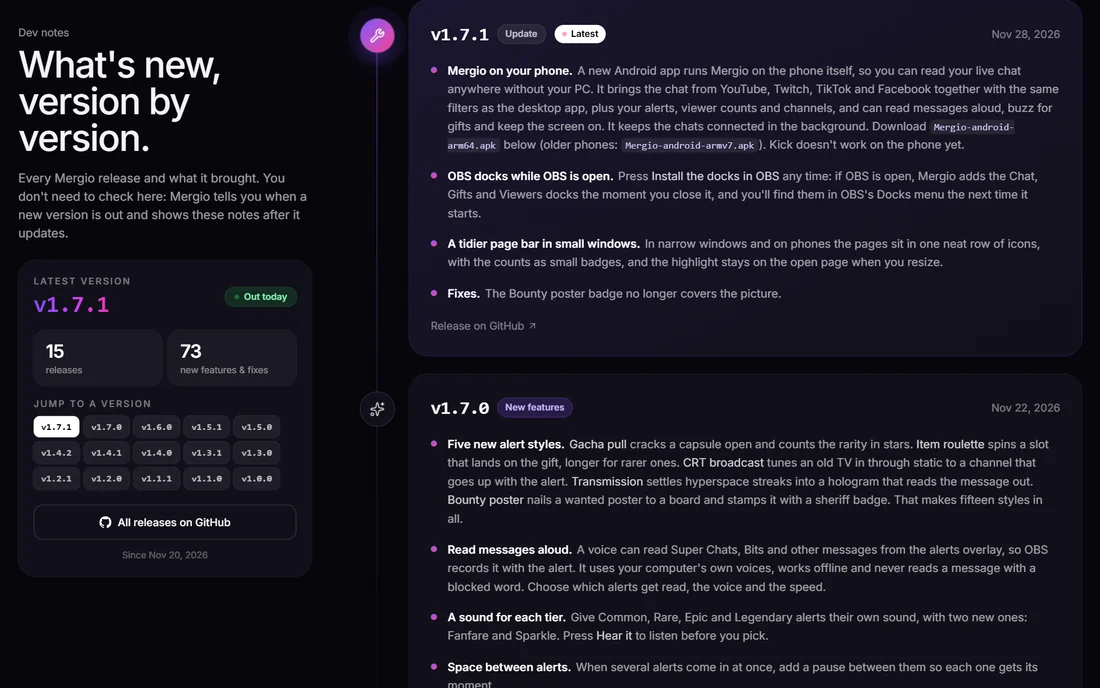
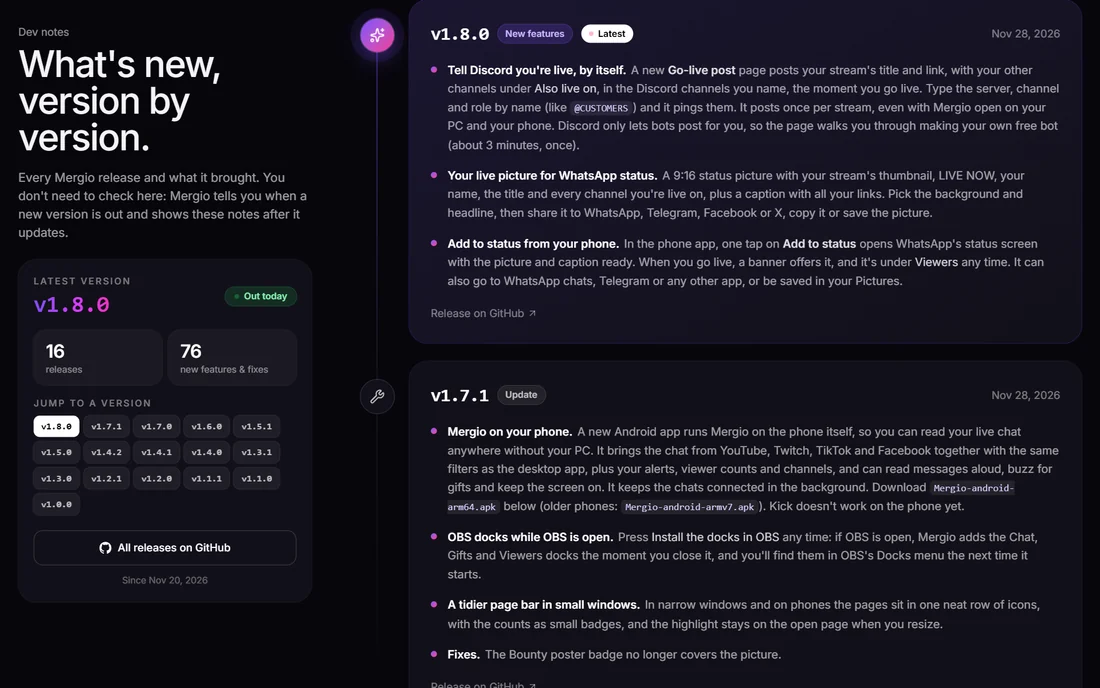
Update the Mergio project page for 1.8.0: go-live posts to Discord, the WhatsApp status picture and release history

diff --git a/components/pages/showcase/data/dev.ts b/components/pages/showcase/data/dev.ts
@@ -154,7 +154,7 @@ export const DEV: DevProject[] = [
     kind: 'dev',
     slug: 'mergio',
     title: 'Mergio',
-    tagline: 'Every live chat in one OBS overlay. YouTube, Twitch, Kick, TikTok and Facebook chat, fifteen game-style alerts, OBS docks, viewer counts and follower goals, from a free app that runs on your own PC, plus an Android app that brings the chat to your phone.',
+    tagline: 'Every live chat in one OBS overlay. YouTube, Twitch, Kick, TikTok and Facebook chat, fifteen game-style alerts, OBS docks, viewer counts and follower goals, from a free app that runs on your own PC. It posts to Discord the moment you go live, and an Android app brings the chat to your phone and puts your live picture on WhatsApp status in one tap.',
     kicker: 'Open Source · Desktop & Android App for Streamers',
     cover: '/Images/projects/mergio/cover.webp',
     accent: '#b18cff',
@@ -164,7 +164,7 @@ export const DEV: DevProject[] = [
       { label: 'Platform', value: 'Windows · macOS · Linux · Android' },
       { label: 'Type', value: 'Desktop app, OBS browser sources, Android app' },
       { label: 'Stack', value: 'Node.js · Vanilla JS · Android · React site' },
-      { label: 'Version', value: 'v1.7.1 · 15 releases · Nov 2026' },
+      { label: 'Version', value: 'v1.8.0 · 16 releases · Nov 2026' },
       { label: 'Licence', value: 'Open source · MIT with credit' },
     ],
     links: [
@@ -176,6 +176,7 @@ export const DEV: DevProject[] = [
       'Plenty of streamers go live on several platforms at once, and then spend the whole stream juggling five chat windows. Mergio pulls the live chat from YouTube, Twitch, Kick, TikTok and Facebook into one overlay that drops into OBS as a single browser source, so every viewer shows up in the same place, in the same style, on stream.',
       'It grew into a full toolkit for multistreaming: an alerts overlay with fifteen game-style looks where bigger gifts get a rarer tier and their own sound, a voice that can read Super Chats and Bits aloud, a viewer count that adds up everyone watching on every platform, follower goals, and three docks that put the chat, gifts and viewers inside OBS itself. Every overlay can keep three saved looks, and ten matching packs restyle everything at once.',
       'Version 1.7.1 took it off the desk. The Android app runs Mergio itself on the phone, with Node.js built into the app, so a streamer can read every live chat from the couch or the street with the PC switched off.',
+      'Version 1.8.0 tells everyone the stream has started. The streamer’s own Discord bot posts the title and every stream link in the channels they name, once per stream, and a status picture with all their streams goes on WhatsApp status in one tap from the phone.',
       'It’s one small app with no account, no cloud and no subscription. It runs on your own computer, keeps every setting in one file there, connects straight to each platform and updates itself. I designed and built all of it, from the overlays and the control panel to the installers, the release pipeline and the website.',
     ],
     problem: [
@@ -191,6 +192,8 @@ export const DEV: DevProject[] = [
       { icon: 'Palette', title: 'Saved looks and matching packs', text: 'Six chat looks with live preview over a game, dark or light background. Every overlay keeps three saved looks you can switch in a click or give each scene its own, and ten matching packs give the chat, alerts and counters one look.' },
       { icon: 'LayoutDashboard', title: 'Inside OBS', text: 'Three OBS docks: the chat, gifts with the top supporters, and viewers with the peak. One button adds them to OBS, even while OBS is open: Mergio waits and adds them the moment OBS closes. A Live chat list with filters and search fits a narrow dock too.' },
       { icon: 'Smartphone', title: 'Mergio on your phone', text: 'An Android app that runs Mergio on the phone itself, with no PC needed. Chat from every platform with the same filters, alerts with top supporters, viewer counts and channels, plus read aloud, a buzz for gifts and keep-the-screen-on. It stays connected in the background.' },
+      { icon: 'Megaphone', title: 'Go-live posts to Discord', text: 'When the stream starts, the streamer’s own Discord bot posts the title and link, with every other platform they’re live on, in the channels they type by name, and pings the role they pick. It posts once per stream, even with Mergio open on the PC and the phone.' },
+      { icon: 'Image', title: 'A status picture for WhatsApp', text: 'A 9:16 picture with the stream’s thumbnail, LIVE NOW, the name, the title and every channel, plus a caption with all the links. In the Android app, one tap opens WhatsApp’s status screen with both ready, and share buttons cover WhatsApp chats, Telegram, Facebook and X.' },
       { icon: 'Users', title: 'Viewer count and follower goals', text: 'One number for everyone watching on every platform, with a breakdown per platform, plus follower goals with progress bars. You pick which platforms show, and the next goal appears by itself.' },
       { icon: 'Earth', title: 'Every language looks right', text: 'Arabic and Hebrew keep their direction, default profile pictures use the first letter of any script, and alert names in joined scripts like Sinhala animate as whole words.' },
       { icon: 'Rocket', title: 'Updates itself', text: 'Mergio checks GitHub for new versions, installs them on Windows with one click after checking the download’s SHA-256, and shows what’s new after every update.' },
@@ -207,6 +210,8 @@ export const DEV: DevProject[] = [
           ['panel-sounds', 'Alerts - a sound for each tier and read aloud'],
           ['panel-obs', 'Add to OBS - every overlay link and the OBS docks'],
           ['panel-live', 'Live chat with filters'],
+          ['panel-golive', 'Go-live post - Discord channels by name'],
+          ['panel-golive-share', 'Share & status - the live picture and caption'],
           ['panel-viewers', 'Viewer count'],
           ['panel-followers', 'Follower goals'],
           ['panel-settings', 'Settings, accounts and keys'],
@@ -217,6 +222,7 @@ export const DEV: DevProject[] = [
         orientation: 'portrait',
         shots: shots('/Images/projects/mergio', [
           ['android-chat', 'Chat from every platform on the phone'],
+          ['android-status', 'Add to status - the live picture for WhatsApp'],
           ['android-alerts', 'Alerts with totals and top supporters'],
           ['android-sheet', 'Tap a message to copy, hide or mute'],
           ['android-chats', 'Add and pause chats on the phone'],
@@ -237,7 +243,7 @@ export const DEV: DevProject[] = [
         label: 'Website',
         orientation: 'landscape',
         shots: shots('/Images/projects/mergio', [
-          ['site-hero', 'Landing page hero - new in 1.7.1'],
+          ['site-hero', 'Landing page hero - new in 1.8.0'],
           ['site-android', 'Your chat, in your pocket - the Android app'],
           ['site-features', 'Features'],
           ['site-local', 'Runs on your PC, nothing in the cloud'],
@@ -257,22 +263,23 @@ export const DEV: DevProject[] = [
         { icon: 'Server', title: 'Local server and WebSocket', text: 'The server listens on 127.0.0.1:8787 only. A WebSocket pushes messages, settings changes and counter updates to every open overlay, dock and the control panel, so a change in the panel shows on stream straight away.' },
         { icon: 'Mic', title: 'Voices made on your PC', text: 'Read aloud uses the system’s own speech: Windows speech, say on macOS and espeak-ng on Linux. The voice is only made for an alert Mergio already showed, looked up by its id, and the audio is kept in memory while it plays.' },
         { icon: 'Lock', title: 'Safe by design', text: 'Only Mergio’s own pages can use the API and the WebSocket (Origin and Sec-Fetch-Site checks), requests must be addressed to localhost, every page has a strict Content Security Policy, saved keys never go back to the browser, tokens are removed from logs, and the data folder is locked to your user account.' },
-        { icon: 'Smartphone', title: 'The same Mergio on Android', text: 'The Android app embeds Node.js (nodejs-mobile) and runs Mergio’s own connectors, bundled with esbuild, inside a foreground service so the chats stay connected in the background. A WebView shows phone screens served on 127.0.0.1, and a small Java bridge adds the phone’s voice, vibration and keep-screen-on.' },
+        { icon: 'Smartphone', title: 'The same Mergio on Android', text: 'The Android app embeds Node.js (nodejs-mobile) and runs Mergio’s own connectors, bundled with esbuild, inside a foreground service so the chats stay connected in the background. A WebView shows phone screens served on 127.0.0.1, and a small Java bridge adds the phone’s voice, vibration, keep-screen-on and sharing the status picture through a read-only content provider.' },
+        { icon: 'Send', title: 'Discord by name', text: 'The go-live post uses Discord’s REST API with the streamer’s own bot. It finds the server, channel and role by name, limits the ping with allowed_mentions, retries when Discord is busy, and reads the channel’s recent messages first, so the PC and the phone never post the same stream twice.' },
         { icon: 'Package', title: 'Installers and releases', text: 'Pushing a version tag builds the Windows installer and portable zip, the macOS disk image, the Linux packages and the signed Android APKs on GitHub Actions and publishes them. The release notes become the in-app “What’s new” popup and the website’s Dev notes.' },
       ],
     },
     stack: [
-      { group: 'App', items: ['Node.js 24', 'Single executable (SEA)', 'ws WebSockets', 'tiktok-live-connector', 'esbuild'] },
+      { group: 'App', items: ['Node.js 24', 'Single executable (SEA)', 'ws WebSockets', 'tiktok-live-connector', 'Discord REST API', 'Canvas', 'esbuild'] },
       { group: 'Android', items: ['nodejs-mobile (Node 18)', 'Java', 'Android WebView', 'Foreground service', 'JNI · CMake · NDK', 'Gradle'] },
       { group: 'Overlays & control panel', items: ['Vanilla JavaScript', 'CSS', 'HTML5', 'OBS Studio browser source', 'OBS docks', 'PWA'] },
       { group: 'Website', items: ['React 19', 'TypeScript 7', 'Vite 8', 'Tailwind CSS 4', 'Prerendered pages', 'Vercel'] },
-      { group: 'Release & quality', items: ['GitHub Actions', 'Inno Setup installer', '128 automated checks', 'CodeQL', 'Dependabot', 'npm audit'] },
+      { group: 'Release & quality', items: ['GitHub Actions', 'Inno Setup installer', '143 automated checks', 'CodeQL', 'Dependabot', 'npm audit'] },
     ],
     extras: [
       {
         id: 'releases',
         title: 'Release History',
-        lede: 'Fifteen releases in its first nine days, each with notes written for streamers. The same notes show up inside the app after an update and on the website’s Dev notes.',
+        lede: 'Sixteen releases in its first nine days, each with notes written for streamers. The same notes show up inside the app after an update and on the website’s Dev notes.',
         items: [
           { icon: 'Rocket', title: 'v1.0.0 · 20 Nov 2026', text: 'Every live chat in one overlay, a control panel to add chats and pick a style, and one small app with nothing else to install.' },
           { icon: 'Package', title: 'v1.1.0 · 20 Nov 2026', text: 'Installers for Windows, macOS and Linux, the final name and logo, a getting-started tour and a complete setup guide.' },
@@ -284,6 +291,7 @@ export const DEV: DevProject[] = [
           { icon: 'Gamepad2', title: 'v1.6.0 · 22 Nov 2026', text: 'Ten game-style alert themes with rarity tiers, three OBS docks, three saved looks for every overlay, pinned messages, and pause and skip for alerts.' },
           { icon: 'Volume2', title: 'v1.7.0 · 22 Nov 2026', text: 'Five more alert styles (Gacha pull, Item roulette, CRT broadcast, Transmission and Bounty poster), read aloud, a sound for each tier, space between alerts and ten matching packs.' },
           { icon: 'Smartphone', title: 'v1.7.1 · 28 Nov 2026', text: 'Mergio for Android, which runs on the phone with no PC needed, OBS docks that install themselves the moment OBS closes, and a tidier page bar in narrow windows and on phones.' },
+          { icon: 'Megaphone', title: 'v1.8.0 · 28 Nov 2026', text: 'Go-live posts to Discord by the streamer’s own bot, in channels named by hand and pinging roles by name, plus a status picture with every stream and Add to status in the Android app.' },
         ],
       },
     ],
@@ -292,6 +300,8 @@ export const DEV: DevProject[] = [
       { problem: 'A text-to-speech feature on a local server could be abused to make the streamer’s PC say anything, live on stream.', solution: 'The voice is never made from text in a request. Mergio only reads an alert it already showed, looked up by its id, after the blocked-word filter, using the computer’s own voices with no internet.' },
       { problem: 'Adding docks to OBS means editing OBS’s own settings file, which OBS rewrites when it closes, and most streamers never close OBS.', solution: 'Mergio only writes the file while OBS is closed. If OBS is open, it waits and adds the docks the moment OBS closes, treats a failed process check as “still open”, keeps a .mergio-backup copy the first time, and leaves any docks the streamer added alone.' },
       { problem: 'Node.js for Android is version 18 and is built without Unicode data or Intl, so Mergio’s own regexes and parts of its dependencies would not even load on the phone.', solution: 'The Android build bundles Mergio with esbuild for Node 18, spells out Unicode property classes as code-point ranges at build time, and adds small stand-ins for the RegExp v flag and Intl, so the phone runs the same connectors as the desktop app.' },
+      { problem: 'Streamers think of their Discord as server and channel names, but webhooks only work per channel and can’t find one by name, and automating a personal account breaks Discord’s rules.', solution: 'Mergio walks the streamer through making their own bot once. The bot finds servers, channels and roles by name (ignoring emoji and separators), says exactly what’s missing when it can’t post, and checks the channel’s recent messages before posting, which also stops the PC and the phone from both posting.' },
+      { problem: 'WhatsApp has no way for apps to post a status, and it’s where many streamers tell friends they’re live.', solution: 'Mergio draws the status picture on a canvas and the Android app hands it to WhatsApp with Android’s share intent aimed at the status screen, through a read-only provider that only serves that picture. Everywhere else falls back to the normal share menu.' },
       { problem: 'TikTok and Facebook block plain requests for public follower counts, and Kick’s API blocks Node’s own HTTP client.', solution: 'Kick goes through the system’s curl. TikTok and Facebook pages are read in a hidden copy of Edge or Chrome that can only open those two sites, runs one copy at a time with its own profile, and only starts while the follower goals overlay is open.' },
       { problem: 'On Windows, the self-updater has to close Mergio, run the installer and open Mergio again, but a script started by the app either never ran or died with it.', solution: 'The updater writes a small PowerShell script and starts it through cmd’s start command, so it outlives the app. It waits for Mergio to exit, installs silently and starts the new version.' },
       { problem: 'Alert names animated letter by letter broke joined scripts like Sinhala and Arabic, and right-to-left messages came out backwards.', solution: 'Names in joined scripts animate as whole words, every message gets its own text direction, and default profile pictures use the first letter of any script.' },
@@ -301,11 +311,11 @@ export const DEV: DevProject[] = [
       metrics: [
         { value: '5', label: 'platforms in one overlay' },
         { value: '15', label: 'game-style alert looks' },
-        { value: '15', label: 'releases in the first nine days' },
-        { value: '128', label: 'automated checks on every PR' },
+        { value: '16', label: 'releases in the first nine days' },
+        { value: '143', label: 'automated checks on every PR' },
       ],
       points: [
-        'A free, open source app for Windows, macOS, Linux and Android that merges YouTube, Twitch, Kick, TikTok and Facebook chat into one OBS overlay, with fifteen game-style alerts, read aloud, OBS docks, a viewer count and follower goals.',
+        'A free, open source app for Windows, macOS, Linux and Android that merges YouTube, Twitch, Kick, TikTok and Facebook chat into one OBS overlay, with fifteen game-style alerts, read aloud, OBS docks, a viewer count, follower goals and a go-live post to Discord.',
         'No account, no cloud and no telemetry. Everything runs on the streamer’s own PC with under 100 MB of memory, every setting stays in one file there, and the only connections go to the platforms themselves.',
         'Every pull request runs syntax checks, tests for the local server’s protections, CodeQL scanning, npm audit and dependency review, and a version tag builds and publishes every installer.',
         'A marketing site with live demos of every alert style, a Dev notes timeline built from the release notes, a plain-English privacy policy and terms, and prerendered pages with structured data and a link preview for search and sharing.',
